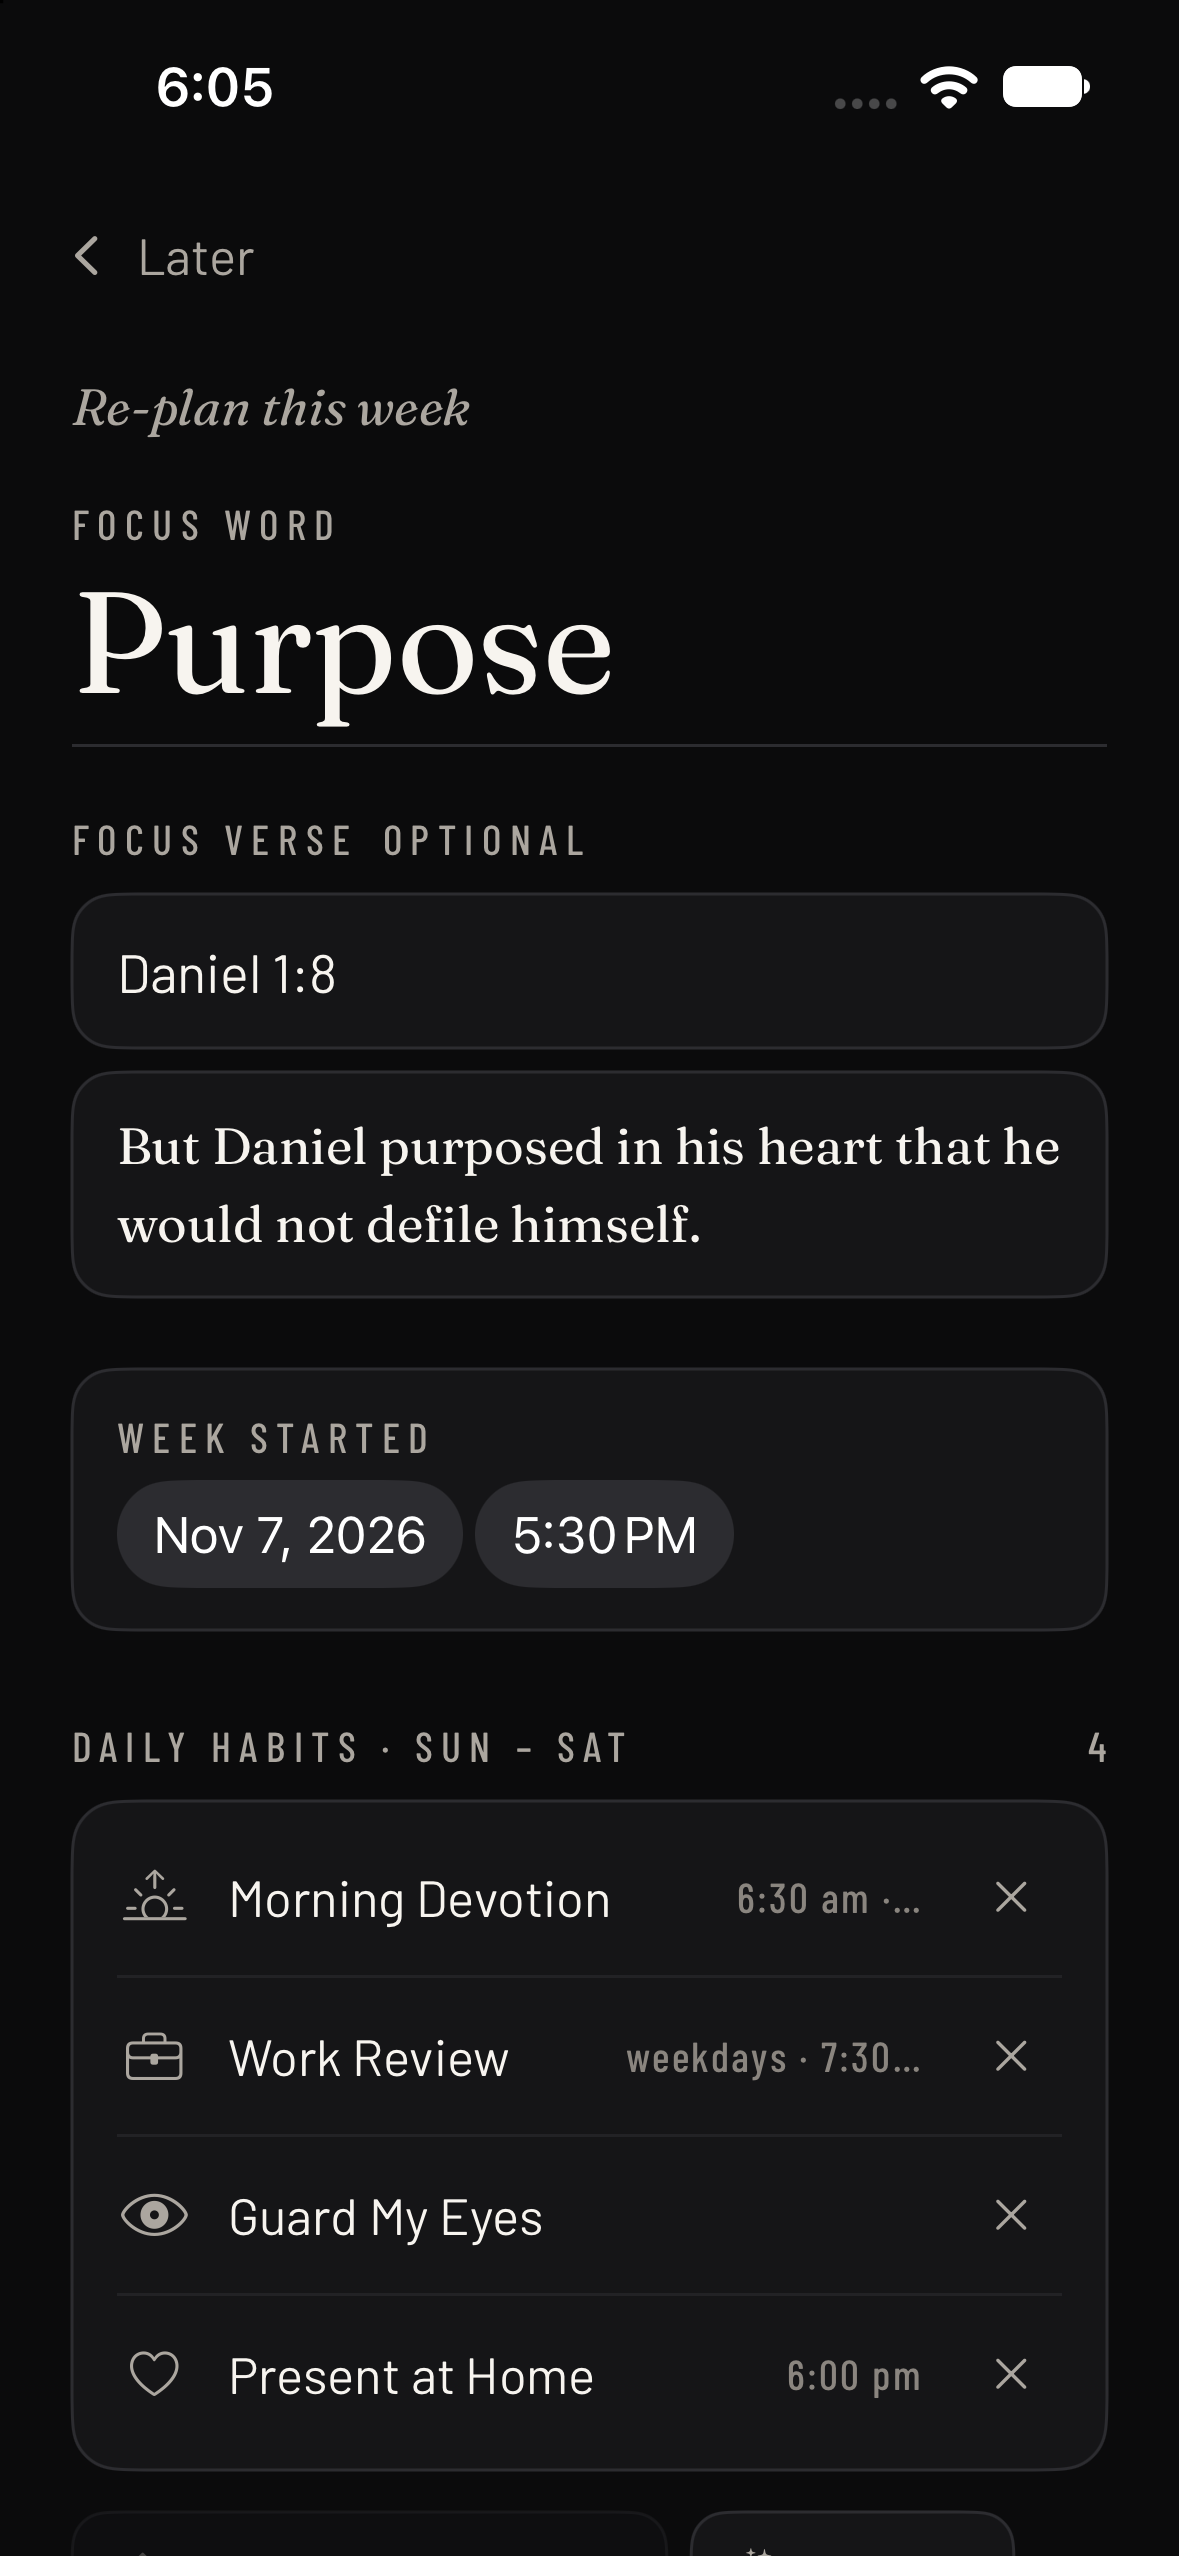
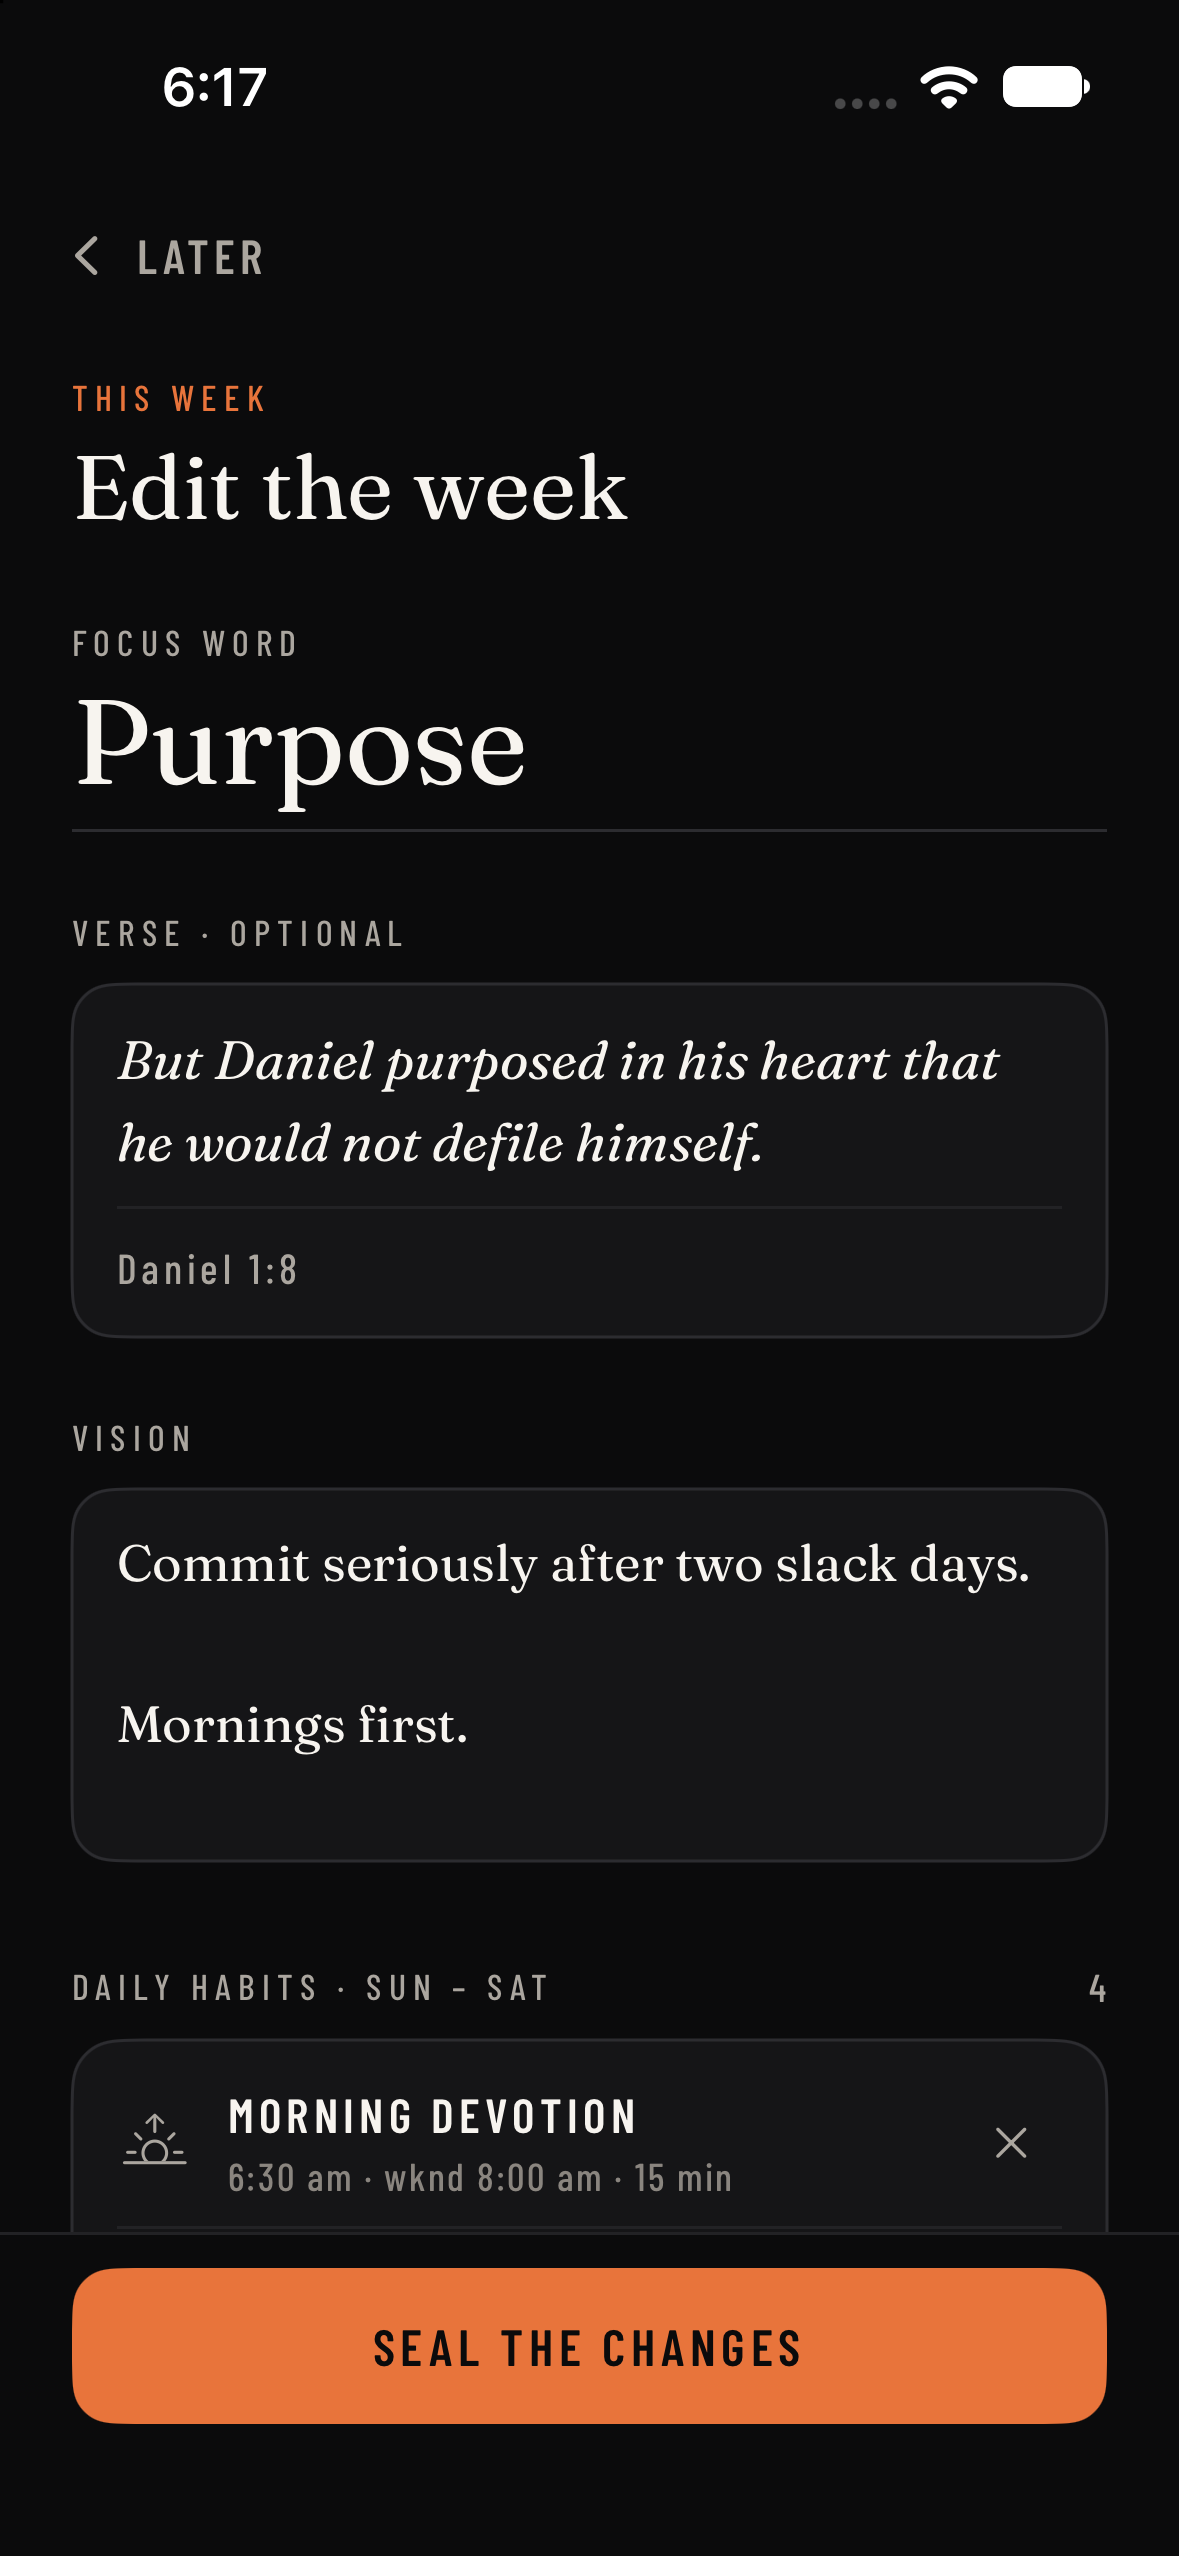
iOS: edit / plan the week restyled (title, verse card, vision moved up, fixed seal footer)

diff --git a/ios/WeeklyDirection/PlanView.swift b/ios/WeeklyDirection/PlanView.swift
@@ -28,6 +28,7 @@ struct PlanView: View {
     @State private var chipSheet: ChipEdit?
     @State private var pickQs = false
     @State private var blocked = false
+    @State private var typing = false
 
     var body: some View {
         VStack(spacing: 0) {
@@ -47,8 +48,12 @@ struct PlanView: View {
             }
             .scrollIndicators(.hidden)
             .scrollDismissesKeyboard(.interactively)
+            // out of the way while typing, so the field being written in keeps the room
+            if !typing { footer }
         }
         .background(Theme.bg.ignoresSafeArea())
+        .onReceive(NotificationCenter.default.publisher(for: UIResponder.keyboardWillShowNotification)) { _ in typing = true }
+        .onReceive(NotificationCenter.default.publisher(for: UIResponder.keyboardWillHideNotification)) { _ in typing = false }
         .onAppear(perform: load)
         .sheet(item: $chipSheet) { e in
             ChipSheet(edit: e, onTray: applyTray, onAdd: addHabit)
@@ -62,10 +67,12 @@ struct PlanView: View {
         .alert("A week is already in progress. Close it before sealing a new one.", isPresented: $blocked) { Button("OK", role: .cancel) {} }
     }
 
+    /// Order (Nov 10 2026): what the week is about first (word, verse, vision), then what you will do (habits), then the
+    /// rarely-touched parts (questions, start). Sealing stays in a footer so it is always in reach.
     @ViewBuilder private var form: some View {
-        Text(replan != nil ? "Re-plan this week" : first ? "Plan your first week" : "Plan the next week")
-            .font(Theme.serifItalic(17)).foregroundStyle(Theme.mu)
-        Eyebrow(text: "Focus word", color: Theme.mu, size: 12).padding(.top, 20)
+        Eyebrow(text: replan != nil ? "This week" : first ? "Your first week" : "Next week", color: Theme.ac)
+        Text(replan != nil ? "Edit the week" : "Plan the week").title(30).foregroundStyle(Theme.tx).padding(.top, 4)
+        Eyebrow(text: "Focus word", color: Theme.mu, size: 12).padding(.top, 26)
         TextField("One word", text: $focus)
             .font(Theme.serif(40)).foregroundStyle(Theme.tx).autocorrectionDisabled()
             .onChange(of: focus) { _, v in
@@ -74,67 +81,78 @@ struct PlanView: View {
             }
             .accessibilityIdentifier("planFocus")
         Rectangle().fill(Theme.line).frame(height: 1).padding(.top, 4)
-        HStack(spacing: 8) {
-            Eyebrow(text: "Focus verse", color: Theme.mu, size: 12)
-            Text("OPTIONAL").font(Theme.label(13)).tracking(2.8).italic().foregroundStyle(Theme.mu)
-        }
-        .padding(.top, 22)
-        field { TextField("Reference, e.g. Daniel 1:8", text: $verseRef).font(Theme.ui(16)).onChange(of: verseRef) { _, _ in saveDraft() } }.padding(.top, 10)
-        field { TextField("The verse", text: $verse, axis: .vertical).font(Theme.serif(17)).lineSpacing(5).onChange(of: verse) { _, _ in saveDraft() } }.padding(.top, 8)
-        if first || replan != nil {
-            field {
-                VStack(alignment: .leading, spacing: 6) {
-                    Eyebrow(text: "Week started", color: Theme.mu, size: 12)
-                    DatePicker("", selection: Binding(get: { start ?? Now.date }, set: { start = $0; saveDraft() }), displayedComponents: [.date, .hourAndMinute])
-                        .labelsHidden().tint(Theme.ac)
-                }
+        // the verse the way the week page shows it: the words, then the reference under them
+        Eyebrow(text: "Verse · optional", color: Theme.mu, size: 12).padding(.top, 26)
+        field {
+            VStack(alignment: .leading, spacing: 10) {
+                TextField("The verse", text: $verse, axis: .vertical).font(Theme.serifItalic(18)).lineSpacing(5).onChange(of: verse) { _, _ in saveDraft() }
+                Rectangle().fill(Theme.rule).frame(height: 1)
+                TextField("Reference, e.g. Daniel 1:8", text: $verseRef).font(Theme.label(14)).tracking(1.6).foregroundStyle(Theme.mu)
+                    .onChange(of: verseRef) { _, _ in saveDraft() }
             }
-            .padding(.top, 24)
         }
+        .padding(.top, 10)
+        Eyebrow(text: "Vision", color: Theme.mu, size: 12).padding(.top, 26)
+        field {
+            TextField("What do you want this week to be?", text: $thoughts, axis: .vertical)
+                .font(Theme.serif(17)).lineSpacing(6).frame(minHeight: 96, alignment: .topLeading)
+                .onChange(of: thoughts) { _, _ in saveDraft() }
+        }
+        .padding(.top, 10)
         HStack {
             let cd = store.settings.closeDay
             Eyebrow(text: "Daily habits · \(Fmt.dowl[(cd + 1) % 7].prefix(3)) – \(Fmt.dowl[cd].prefix(3))", color: Theme.mu, size: 12)
             Spacer()
             Text("\(tray.count)").font(Theme.label(13)).foregroundStyle(Theme.mu)
         }
-        .padding(.top, 30)
+        .padding(.top, 34)
         trayCard.padding(.top, 10)
-        chips.padding(.top, 14)
+        Eyebrow(text: "Add from your library · hold to edit", color: Theme.mu2, size: 11).padding(.top, 18)
+        chips.padding(.top, 10)
         HStack {
             Eyebrow(text: "Saturday questions", color: Theme.mu, size: 12)
             Spacer()
-            Button("Change") { pickQs = true }.font(Theme.ui(15)).foregroundStyle(Theme.ac)
+            Button("Change") { pickQs = true }.caps(14).foregroundStyle(Theme.ac)
         }
         .padding(.top, 34)
-        ForEach(qs, id: \.self) { q in
-            let anchor = q == store.settings.anchorQ
-            field(stroke: anchor ? Theme.ac.opacity(0.35) : Theme.line) {
+        VStack(alignment: .leading, spacing: 0) {
+            ForEach(Array(qs.enumerated()), id: \.element) { n, q in
                 VStack(alignment: .leading, spacing: 6) {
                     Text(q).font(Theme.serif(17)).lineSpacing(5).foregroundStyle(Theme.tx)
-                    if anchor { Eyebrow(text: "Anchor · every week", color: Theme.mu, size: 12) }
+                    if q == store.settings.anchorQ { Eyebrow(text: "Anchor · every week", color: Theme.ac, size: 11) }
                 }
+                .fullWidth().padding(.horizontal, 15).padding(.vertical, 14)
+                if n < qs.count - 1 { Rectangle().fill(Theme.rule).frame(height: 1).padding(.leading, 15) }
             }
-            .padding(.top, 8)
         }
-        Eyebrow(text: "Vision", color: Theme.mu, size: 12).padding(.top, 34)
-        field {
-            TextField("What do you want this week to be?", text: $thoughts, axis: .vertical)
-                .font(Theme.serif(17)).lineSpacing(6).frame(minHeight: 120, alignment: .topLeading)
-                .onChange(of: thoughts) { _, _ in saveDraft() }
+        .card(16).padding(.top, 10)
+        if first || replan != nil {
+            DatePicker(selection: Binding(get: { start ?? Now.date }, set: { start = $0; saveDraft() }), displayedComponents: [.date, .hourAndMinute]) {
+                Text("Week started").caps(16).foregroundStyle(Theme.tx)
+            }
+            .tint(Theme.ac).padding(.horizontal, 15).frame(minHeight: 56).card(16).padding(.top, 34)
         }
-        .padding(.top, 10)
+    }
+
+    /// always in reach: says what is missing, or seals
+    private var footer: some View {
         let ok = !focus.isEmpty && !tray.isEmpty
-        Button { seal() } label: {
-            Text("Seal the week").font(Theme.serif(19)).foregroundStyle(Color(hex: 0x0B0B0C))
-                .frame(maxWidth: .infinity).frame(height: 54)
-                .background(Color(hex: 0xF7F4EF).opacity(ok ? 1 : 0.35), in: RoundedRectangle(cornerRadius: Theme.r(16), style: .continuous))
+        return VStack(spacing: 8) {
+            if !ok {
+                Text(focus.isEmpty && tray.isEmpty ? "Choose a focus word and at least one habit." : focus.isEmpty ? "Choose a focus word." : "Add at least one habit.")
+                    .font(Theme.ui(14)).foregroundStyle(Theme.mu)
+            }
+            Button { seal() } label: {
+                Text(replan != nil ? "Seal the changes" : "Seal the week").caps(17).foregroundStyle(ok ? Theme.onAc : Theme.mu2)
+                    .frame(maxWidth: .infinity).frame(height: 52)
+                    .background(ok ? Theme.ac : Theme.card2, in: RoundedRectangle(cornerRadius: Theme.r(14), style: .continuous))
+            }
+            .buttonStyle(.plain).disabled(!ok)
+            .accessibilityIdentifier("sealWeek")
         }
-        .buttonStyle(.plain).disabled(!ok).padding(.top, 34)
-        .accessibilityIdentifier("sealWeek")
-        if !ok {
-            Text(focus.isEmpty && tray.isEmpty ? "Choose a focus word and at least one habit." : focus.isEmpty ? "Choose a focus word." : "Add at least one habit.")
-                .font(Theme.ui(13)).foregroundStyle(Theme.mu2).frame(maxWidth: .infinity).padding(.top, 10)
-        }
+        .padding(.horizontal, 24).padding(.top, 12).padding(.bottom, 10)
+        .background(Theme.bg.ignoresSafeArea(edges: .bottom))
+        .overlay(alignment: .top) { Rectangle().fill(Theme.rule).frame(height: 1) }
     }
 
     private func field<V: View>(stroke: Color = Theme.line, @ViewBuilder _ content: () -> V) -> some View {
@@ -152,15 +170,17 @@ struct PlanView: View {
                 if let c = Commitment(raw) {
                     HStack(spacing: 12) {
                         Ico(name: c.icon, size: 17).foregroundStyle(Theme.mu)
-                        Text(c.name).caps(16).foregroundStyle(Theme.tx).lineLimit(1).layoutPriority(1)
+                        VStack(alignment: .leading, spacing: 3) {
+                            Text(c.name).caps(16).foregroundStyle(Theme.tx).lineLimit(1)
+                            if !c.timeLabel().isEmpty { Text(c.timeLabel()).font(Theme.label(13)).tracking(0.8).foregroundStyle(Theme.mu2).lineLimit(1) }
+                        }
                         Spacer(minLength: 6)
-                        Text(c.timeLabel()).font(Theme.label(13)).tracking(0.8).foregroundStyle(Theme.mu2).lineLimit(1)
                         Button { tray.remove(at: i); saveDraft() } label: {
                             Image(systemName: "xmark").font(.system(size: 13)).foregroundStyle(Theme.mu).frame(width: 34, height: 40)
                         }
                         .buttonStyle(.plain).accessibilityLabel("Remove \(c.name)")
                     }
-                    .padding(.vertical, 6)
+                    .padding(.vertical, 8)
                     .contentShape(Rectangle())
                     .onTapGesture { chipSheet = ChipEdit(mode: .tray, source: raw) }
                     if i < tray.count - 1 { Rectangle().fill(Theme.rule).frame(height: 1) }
@@ -189,9 +209,9 @@ struct PlanView: View {
     private func chip(icon: String, text: String, serif: Bool, dashed: Bool = false) -> some View {
         HStack(spacing: 9) {
             Image(systemName: icon).font(.system(size: 14, weight: .light)).foregroundStyle(Theme.mu)
-            Text(text).font(serif ? Theme.serif(17) : Theme.ui(16)).foregroundStyle(dashed ? Theme.mu : Theme.tx)
+            Text(text).caps(14).foregroundStyle(dashed ? Theme.mu : Theme.tx)
         }
-        .padding(.horizontal, 13).frame(height: 42)
+        .padding(.horizontal, 13).frame(height: 40)
         .background(dashed ? Color.clear : Theme.card, in: RoundedRectangle(cornerRadius: Theme.r(12), style: .continuous))
         .overlay(RoundedRectangle(cornerRadius: Theme.r(12), style: .continuous).stroke(Theme.line, style: StrokeStyle(lineWidth: 1, dash: dashed ? [4, 3] : [])))
         .contentShape(Rectangle())

diff --git a/ios/docs/PROGRESS.md b/ios/docs/PROGRESS.md
@@ -6,6 +6,12 @@
 - A prayer that is only its name opens as a half sheet with "Add to this prayer"; Edit or that line lifts it to the full page. A prayer with text, the life prayer and New still open full height. The list stays plain rows (a text preview line was tried and removed the same day: Eddie wants the list simple).
 - Layout only: no change to what is saved. Verified: simulator shots `prayer`, `prayer-short`. Not verified: on the phone; the lift to full height when Edit is tapped.
 
+## Edit / plan the week restyle (Nov 10)
+- Layout only; the draft, seal and field-level writes are untouched. Serif page title ("Edit the week" / "Plan the week") under an accent eyebrow. Order is now word, verse, vision, habits, Saturday questions, week started (vision used to be last).
+- Verse is one card: the words in italic, the reference under them. Habit rows show the time under the name (it was cut off). Library chips use the caps font. Questions are one card. Week started is one row.
+- Seal is an accent button in a fixed footer ("Seal the changes" when editing), with the missing-piece hint above it; the footer hides while the keyboard is up.
+- Verified: simulator shot `plan` (top of the page only), 13 tests. Not verified: the lower half of the page, typing with the keyboard, sealing, on the phone.
+
 ## Timer restyle (Nov 10)
 - The kitchen-timer face (own colours, overlapping numbers, plain-text Stop) is replaced: accent eyebrow "Timer · N min", the habit name as a serif page title, one accent ring that empties on a quiet track with the time and "ends h:mm" inside, and Stop timer as the app's outlined row. Uses the theme colours, so it follows light mode. The ring draws in on open. Timer rules and writes are unchanged.
 - Verified: simulator shots `focus`, `focus-light`. Not verified: on the phone; the finish moment; habits longer than 60 min (the ring is now always the habit's own length, the old face was out of 60).
